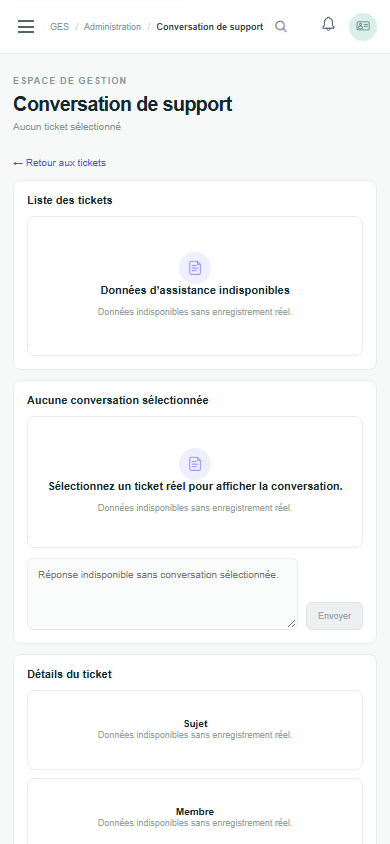
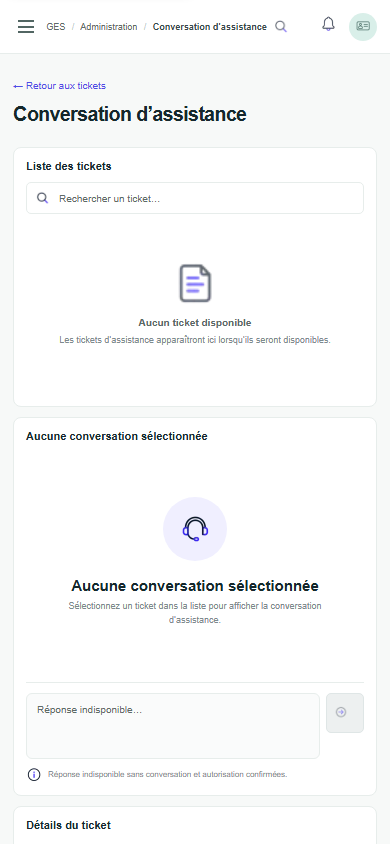
Align support conversation with MF-25

diff --git a/app/globals.css b/app/globals.css
@@ -69,3 +69,7 @@ a:focus-visible,button:focus-visible,input:focus-visible,select:focus-visible,te
 .calendar-panel{padding:8px}.calendar-panel .module-panel-header{padding:10px 14px}.calendar-panel .calendar-empty{padding-bottom:4px}
 .incident-detail-grid{display:grid;gap:10px;margin:10px 0}.incident-primary-grid{grid-template-columns:repeat(3,minmax(0,1fr))}.incident-secondary-grid,.incident-activity-grid{grid-template-columns:repeat(2,minmax(0,1fr))}.incident-card{min-width:0;min-height:188px;padding:14px 18px}.incident-card>h2,.incident-notes>h2,.incident-resolution>h2{font:700 16px Arial,Helvetica,sans-serif;margin:0}.incident-card-state{height:145px;display:flex;align-items:center;justify-content:center;flex-direction:column;text-align:center}.incident-card-state .detail-data-icon,.incident-resolution-state .detail-data-icon{height:62px;width:62px;margin-bottom:7px;background:#eef1f5}.incident-card-state .detail-data-icon img,.incident-resolution-state .detail-data-icon img{width:30px;height:30px;filter:brightness(0) saturate(100%) invert(40%) sepia(13%) saturate(1200%) hue-rotate(188deg) brightness(90%)}.incident-card-state strong,.incident-resolution-state strong{font-size:14px}.incident-card-state p,.incident-resolution-state p{max-width:350px;margin:4px 0 0;color:#7c88ac;font-size:13px;line-height:1.4}.incident-notes{min-height:188px;padding:14px 18px}.incident-notes textarea{width:100%;height:120px;margin-top:8px;resize:none;border:1px solid var(--line);border-radius:6px;padding:12px;color:#8792b0;font:14px Arial,Helvetica,sans-serif;background:#fff}.incident-notes textarea:disabled{opacity:1}.incident-resolution{min-height:96px;padding:14px 18px}.incident-resolution-state{display:flex;align-items:center;justify-content:center;gap:12px;min-height:55px}.incident-resolution-state .detail-data-icon{height:54px;width:54px;margin:0}.incident-resolution-state p{max-width:420px;margin-top:3px}.incident-actions{min-height:68px;padding:12px 18px;display:flex;align-items:center;gap:10px}.incident-actions button{min-width:160px;min-height:44px;display:flex;align-items:center;justify-content:center;gap:8px;border:1px solid #dfe6e6;border-radius:6px;background:#edf0f0;color:#9aa5a7;font-size:12px;cursor:not-allowed}.incident-actions button img{opacity:.5}.incident-actions-note{display:flex;align-items:center;gap:10px;margin-left:8px;padding-left:24px;border-left:1px solid #cbd4df;color:#8894a8;font-size:12px}.incident-actions-note img{opacity:.7}@media(max-width:900px){.incident-primary-grid{grid-template-columns:repeat(2,minmax(0,1fr))}.incident-primary-grid .incident-card:last-child{grid-column:1/-1}}@media(max-width:700px){.incident-primary-grid,.incident-secondary-grid,.incident-activity-grid{grid-template-columns:1fr}.incident-primary-grid .incident-card:last-child{grid-column:auto}.incident-actions{align-items:stretch;flex-direction:column}.incident-actions button{width:100%}.incident-actions-note{margin:0;padding:10px 0 0;border-left:0;border-top:1px solid #cbd4df}.incident-resolution-state{align-items:flex-start}.incident-card,.incident-notes{min-height:165px}.incident-card-state{height:125px}.incident-notes textarea{height:95px}}
 .module-toolbar-titled{gap:10px}.module-toolbar-titled>h2{flex:0 0 auto;margin:0 10px 0 0;font:700 16px Arial,Helvetica,sans-serif}.module-toolbar-titled .filter-search{max-width:270px;min-width:160px}.module-toolbar-titled .module-filter-row{flex:1;flex-wrap:nowrap}.module-toolbar-titled .module-filter-row .filter-button{flex:1;min-width:130px}@media(max-width:1050px){.module-toolbar-titled{flex-wrap:wrap}.module-toolbar-titled .filter-search{flex:1 1 100%;max-width:none}.module-toolbar-titled .module-filter-row{flex:1 1 100%}}@media(max-width:760px){.module-toolbar-titled .module-filter-row{flex-wrap:wrap}.module-toolbar-titled .module-filter-row .filter-button{min-width:105px}}
+.support-workspace{grid-template-columns:minmax(190px,.95fr) minmax(300px,1.9fr) minmax(190px,1fr);min-height:470px}.support-list,.support-thread{display:flex;flex-direction:column}.support-ticket-search{display:flex;align-items:center;gap:7px;height:32px;padding:0 9px;border:1px solid var(--line);border-radius:5px;background:#fff}.support-ticket-search input{width:100%;min-width:0;border:0;outline:0;background:transparent;font:10px Arial,sans-serif}.support-ticket-search input:disabled{opacity:1}.support-empty-state{flex:1;display:flex;align-items:center;justify-content:center;flex-direction:column;text-align:center;padding:18px}.support-empty-state>img{margin-bottom:9px;opacity:.65}.support-empty-state strong,.support-detail-row strong{font-size:10px;color:#596967}.support-empty-state p,.support-no-selection p{margin:6px 0 0;color:#7d8b8e;font-size:9px;line-height:1.5}.support-no-selection{flex:1;min-height:240px;display:flex;align-items:center;justify-content:center;flex-direction:column;text-align:center;padding:20px}.support-no-selection-icon{width:64px;height:64px;border-radius:50%;display:grid;place-items:center;background:#f0efff}.support-no-selection p{max-width:260px}.support-composer textarea{min-height:44px;resize:none}.support-composer button{width:34px;height:34px;display:grid;place-items:center;flex:0 0 auto;padding:0}.support-composer button img{opacity:.5}.support-reply-note{display:flex;align-items:center;gap:6px;margin-top:8px;color:#7d8b8e;font-size:8px;line-height:1.4}.support-reply-note img{flex:0 0 auto}.support-details-list{display:grid}.support-detail-row{display:flex;align-items:flex-start;gap:9px;padding:12px 0;border-bottom:1px solid var(--line)}.support-detail-row-icon{flex:0 0 auto;opacity:.7}.support-detail-row>div{display:grid;gap:5px;min-width:0}.support-detail-row strong{font-size:9px}.support-detail-row span{font-size:9px;color:#929fa1}
+.support-no-selection strong{margin-top:16px;font-size:15px}.support-detail-row-icon{width:48px;height:48px;border-radius:50%;display:grid;place-items:center;background:#eef1f5}.support-detail-row{align-items:center;padding:13px 0}.support-detail-row>div:last-child{gap:5px}.support-detail-row strong,.support-detail-row span{font-size:12px}.support-composer{align-items:stretch;border-top:1px solid var(--line);padding-top:10px}.support-composer textarea{min-height:66px}.support-composer button{width:auto;min-width:110px;height:40px;display:flex;align-items:center;justify-content:center;gap:8px;padding:0 12px}.support-empty-state>img{width:48px;height:48px}
+@media(max-width:900px){.support-workspace{grid-template-columns:minmax(0,1fr);min-height:0}.support-workspace>section{width:100%;min-width:0}.support-list{min-height:280px}.support-thread{min-height:380px}.support-details{min-height:260px}.support-ticket-search{width:100%;box-sizing:border-box}.support-empty-state{min-height:180px}.support-no-selection{min-height:220px}.support-detail-row{min-height:68px}}
+@media(max-width:700px){.support-workspace{gap:10px}.support-workspace>section{padding:12px}.support-list{min-height:260px}.support-thread{min-height:350px}.support-details{min-height:245px}.support-composer{gap:6px}.support-composer button{min-width:38px;width:38px;padding:0;font-size:0}.support-detail-row-icon{width:42px;height:42px}}

diff --git a/components/admin-shell.tsx b/components/admin-shell.tsx
@@ -36,7 +36,7 @@ const detailPages: Record<string, { title: string; subtitle: string }> = {
   "souscriptions/dossier": { title: "Détail de la souscription", subtitle: "Informations détaillées sur la souscription sélectionnée dans GES Admin." },
   "contrats/dossier": { title: "Détail du contrat", subtitle: "Consultez les informations détaillées du contrat d’investissement." },
   "risques/incident": { title: "Détail d’un incident", subtitle: "Consultation complète des informations et de l’enquête associées à un incident." },
-  "support/conversation": { title: "Conversation de support", subtitle: "Aucun ticket sélectionné" },
+  "support/conversation": { title: "Conversation d’assistance", subtitle: "" },
   "etats-interface": { title: "États de l’interface", subtitle: "Références visuelles des états partagés" },
 };
 
@@ -148,7 +148,7 @@ export function AdminShell({ section }: { section: string }) {
     </aside>
     {menuOpen && <button className="drawer-backdrop visible" type="button" aria-label="Fermer le menu" tabIndex={-1} onClick={closeMenu}/>}
     <main className="main-area" id="main-content" tabIndex={-1} inert={menuOpen}><header className="topbar"><button ref={menuButtonRef} className="mobile-menu-toggle" onClick={() => menuOpen ? closeMenu() : setMenuOpen(true)} aria-label={menuOpen ? "Fermer le menu" : "Ouvrir le menu"} aria-expanded={menuOpen} aria-controls="primary-navigation">{menuOpen ? <Image src="/assets/icons/close.webp" alt="" width={19} height={19}/> : <span className="menu-bars" aria-hidden="true"/>}</button><div className="breadcrumb">GES <span>/</span> Administration <span>/</span> <b>{page.title}</b></div><div className="top-actions"><label className="search"><Image src="/assets/icons/search.webp" alt="" width={15} height={15}/><input placeholder="Rechercher" aria-label="Rechercher" value={searchQuery} onChange={(event) => setSearchQuery(event.target.value)}/><kbd>⌘ K</kbd></label><Link href="/admin/notifications" className="bell" aria-label="Notifications"><Image src="/assets/icons/notification.webp" alt="" width={19} height={19}/></Link><div className="top-avatar"><Image src="/assets/icons/identity.webp" alt="" width={16} height={16}/></div></div></header>
-      <div className={`content ${key === "plans/nouveau" ? "plan-content" : ""}`}>{key === "souscriptions/dossier" && <Link className="detail-back" href="/admin/souscriptions">← Retour aux souscriptions</Link>}{key === "contrats/dossier" && <Link className="detail-back" href="/admin/contrats">← Retour aux contrats</Link>}{key === "risques/incident" && <Link className="detail-back" href="/admin/risques">← Retour aux alertes</Link>}<div className="page-heading"><div>{key !== "transactions" && key !== "souscriptions/dossier" && key !== "contrats/dossier" && key !== "risques/incident" && <div className="eyebrow">ESPACE DE GESTION</div>}<h1>{page.title}</h1><p>{page.subtitle}</p></div><div className="heading-actions">{key !== "souscriptions/dossier" && key !== "contrats/dossier" && key !== "risques/incident" && <span className="status-pill preview-pill"><i/> Aperçu sans connexion aux données</span>}</div></div>
+      <div className={`content ${key === "plans/nouveau" ? "plan-content" : ""}`}>{key === "souscriptions/dossier" && <Link className="detail-back" href="/admin/souscriptions">← Retour aux souscriptions</Link>}{key === "contrats/dossier" && <Link className="detail-back" href="/admin/contrats">← Retour aux contrats</Link>}{key === "risques/incident" && <Link className="detail-back" href="/admin/risques">← Retour aux alertes</Link>}{key === "support/conversation" && <Link className="detail-back" href="/admin/support">← Retour aux tickets</Link>}<div className="page-heading"><div>{key !== "transactions" && key !== "souscriptions/dossier" && key !== "contrats/dossier" && key !== "risques/incident" && key !== "support/conversation" && <div className="eyebrow">ESPACE DE GESTION</div>}<h1>{page.title}</h1>{page.subtitle && <p>{page.subtitle}</p>}</div><div className="heading-actions">{key !== "souscriptions/dossier" && key !== "contrats/dossier" && key !== "risques/incident" && key !== "support/conversation" && <span className="status-pill preview-pill"><i/> Aperçu sans connexion aux données</span>}</div></div>
       {key === "notifications" ? <NotificationsWorkspace query={searchQuery} onQueryChange={setSearchQuery}/> : key === "plans/nouveau" ? <><Link href="/admin/plans" className="plan-back">← Retour aux plans</Link><PlanForm/></> : overview ? <>{financial && <div className="module-notice">Valeurs initiales — les montants affichés sont à confirmer et ne constituent pas des soldes vérifiés.</div>}<div className={`metric-grid ${financial ? "financial-metrics" : ""}`}>{metrics.map(([label,value,caption])=><MetricCard key={label} label={label} value={value} caption={caption}/>)}</div>
       {financial && <UsdUnavailable/>}
       <div className={`overview-grid ${financial ? "financial-overview-grid" : "command-overview-grid"}`}><section className="panel"><div className="panel-head"><div><h2>{financial ? "Tendance de trésorerie" : "Tendance financière"}</h2></div>{financial && <button className="select-button" disabled title="Les données sont indisponibles">Période⌄</button>}</div><div className="chart-empty"><div className="chart-lines"><span/><span/><span/><span/></div><div className="chart-message">Aucune donnée disponible</div></div></section><section className="panel breakdown"><div className="panel-head"><div><h2>{financial ? "Obligations à venir" : "Répartition des investissements"}</h2></div>{financial && <button className="dots" disabled aria-label="Options indisponibles">···</button>}</div>{financial ? <div className="donut-wrap"><p>Aucune donnée disponible</p></div> : <div className="donut-wrap"><div className="donut"><div/></div><p>Aucune donnée disponible</p></div>}</section></div>

diff --git a/components/detail-workspace.tsx b/components/detail-workspace.tsx
@@ -71,8 +71,7 @@ export function DetailWorkspace({ sectionKey }: { sectionKey: string }) {
     <section className="panel incident-actions"><button disabled><Image src="/assets/icons/next.webp" alt="" width={14} height={14}/> Escalader</button><button disabled><Image src="/assets/icons/success.webp" alt="" width={14} height={14}/> Clôturer</button><span className="incident-actions-note"><Image src="/assets/icons/info.webp" alt="" width={18} height={18}/>Actions indisponibles sans incident et autorisation confirmés.</span></section>
   </>;
   if (sectionKey === "support/conversation") return <>
-    <BackLink href="/admin/support" label="Retour aux tickets"/>
-    <div className="support-workspace"><section className="panel support-list"><h2>Liste des tickets</h2><Unavailable title="Données d’assistance indisponibles"/></section><section className="panel support-thread"><h2>Aucune conversation sélectionnée</h2><Unavailable title="Sélectionnez un ticket réel pour afficher la conversation."/><div className="support-composer"><textarea disabled placeholder="Réponse indisponible sans conversation sélectionnée."/><button disabled>Envoyer</button></div></section><section className="panel support-details"><h2>Détails du ticket</h2>{["Sujet", "Membre", "Statut", "Catégorie"].map((title) => <Unavailable key={title} title={title}/>)}</section></div>
+    <div className="support-workspace"><section className="panel support-list"><h2>Liste des tickets</h2><label className="filter-search support-ticket-search"><Image src="/assets/icons/search.webp" alt="" width={14} height={14}/><input placeholder="Rechercher un ticket…" aria-label="Rechercher un ticket"/></label><div className="support-empty-state"><Image src="/assets/icons/document.webp" alt="" width={32} height={32}/><strong>Aucun ticket disponible</strong><p>Les tickets d’assistance apparaîtront ici lorsqu’ils seront disponibles.</p></div></section><section className="panel support-thread"><h2>Aucune conversation sélectionnée</h2><div className="support-no-selection"><div className="support-no-selection-icon"><Image src="/assets/icons/support.webp" alt="" width={32} height={32}/></div><strong>Aucune conversation sélectionnée</strong><p>Sélectionnez un ticket dans la liste pour afficher la conversation d’assistance.</p></div><div className="support-composer"><textarea disabled placeholder="Réponse indisponible…"/><button disabled aria-label="Envoyer une réponse"><Image src="/assets/icons/next.webp" alt="" width={14} height={14}/>Envoyer</button></div><div className="support-reply-note"><Image src="/assets/icons/info.webp" alt="" width={16} height={16}/>Réponse indisponible sans conversation et autorisation confirmées.</div></section><section className="panel support-details"><h2>Détails du ticket</h2><div className="support-details-list">{[["Sujet", "document"], ["Membre", "members"], ["Statut", "analytics"], ["Catégorie", "view"]].map(([title, icon]) => <div className="support-detail-row" key={title}><div className="support-detail-row-icon"><Image src={`/assets/icons/${icon}.webp`} alt="" width={22} height={22}/></div><div><strong>{title}</strong><span>Données indisponibles</span></div></div>)}</div></section></div>
   </>;
   return <Unavailable title="Aucune donnée de dossier disponible"/>;
 }

diff --git a/design/qa/README.md b/design/qa/README.md
@@ -165,3 +165,4 @@ Captures MF-22 : admin-risques-1440x1000.png et admin-risques-390x844.png. Aucun
 Captures MF-23 : admin-risques-incident-1440x1000.png et admin-risques-incident-390x844.png. Les donnees d'incident restent indisponibles; notes, escalade et cloture ne permettent aucune saisie ou action sans dossier reel.
 
 Captures MF-24 : admin-support-1440x1000.png et admin-support-390x844.png. Aucun ticket de demonstration, identite ou message; les filtres restent neutres sans source GES autorisee.
+Captures MF-25 : admin-support-conversation-1440x1000.png et admin-support-conversation-390x844.png. La conversation vide indique clairement les tickets et details indisponibles; reponse desactivee sans conversation et autorisation confirmees. Aucun identifiant, message, statut, date ou montant fictif.
